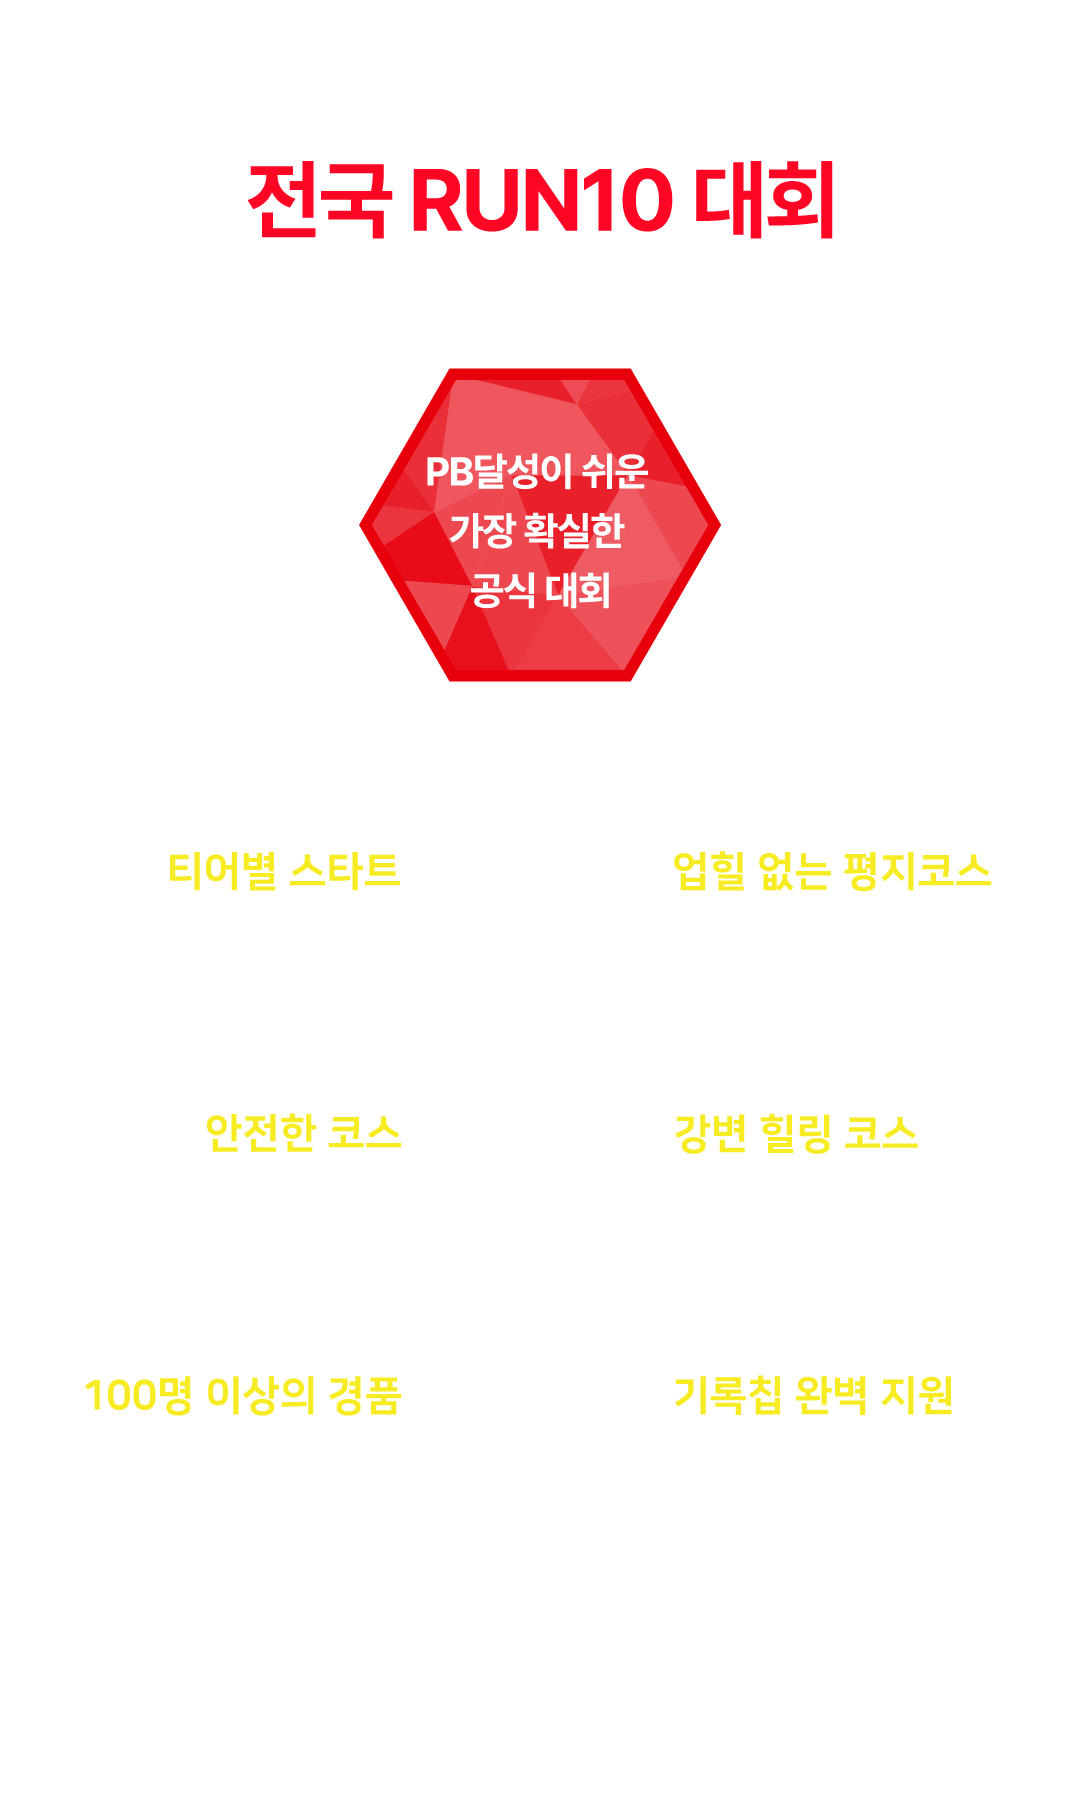
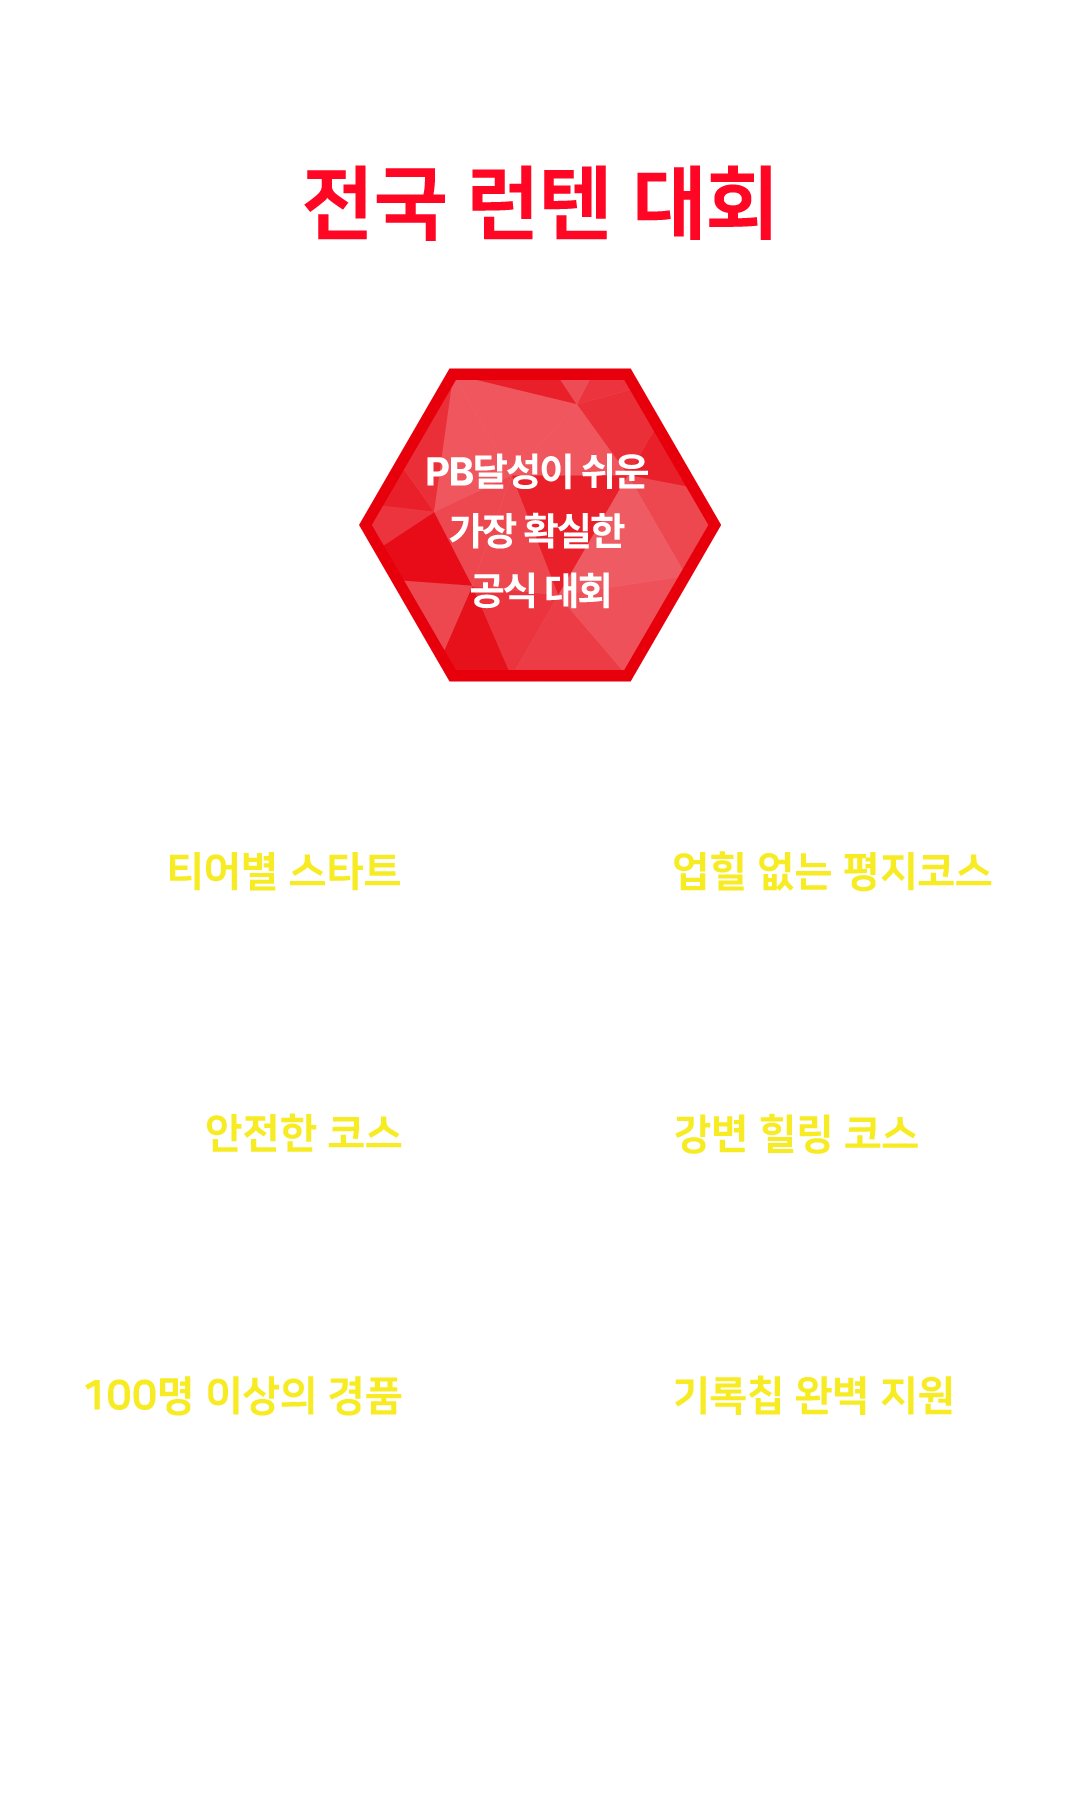
메인/대회/관리자페이지

Changed region(s): [[0.2139, 0.0935, 0.7944, 0.1558]]

diff --git a/src/components/WebMainPage.tsx b/src/components/WebMainPage.tsx
@@ -155,8 +155,8 @@ export default function WebMainPage() {
             {/* 2. we are RUN10 */}
             <div className="mb-10">
               <h1 className="text-4xl sm:text-6xl font-black tracking-tight">
-                <span className="block mb-2">we are</span>
-                <span className="block text-red-600">RUN10</span>
+                
+                <span className="block text-red-600">런텐 RUN10</span>
               </h1>
             </div>
 
@@ -265,7 +265,7 @@ export default function WebMainPage() {
                       <p>도시관광도 즐기고 PB에 도전하세요!</p>
                     </div>
                     <div className="text-xl sm:text-2xl md:text-3xl lg:text-4xl font-bold" style={{textShadow: '2px 2px 4px rgba(0,0,0,0.8)'}}>
-                      <p>2026 2.28 세종에서 열립니다</p>
+                      <p>2026.3.21 청주에서 열립니다</p>
                     </div>
                   </div>
                 </div>
@@ -304,10 +304,10 @@ export default function WebMainPage() {
         <div className="max-w-7xl mx-auto px-4 sm:px-6 lg:px-8">
           <div className="text-center mb-8 sm:mb-12 lg:mb-16">
             <h2 className="text-3xl sm:text-4xl md:text-5xl font-black text-red-600 mb-3 sm:mb-4">
-              RUN10 티어
+              런텐 티어
             </h2>
             <p className="text-lg sm:text-xl md:text-2xl text-black mb-2 sm:mb-3">
-              나의 RUN10 티어를 확인해 보세요.
+              나의 런텐 티어를 확인해 보세요.
             </p>
             <p className="text-base sm:text-lg text-gray-600 mb-6 sm:mb-8 lg:mb-12">
               마이페이지에서 언제든지 수정 가능합니다.
@@ -369,10 +369,10 @@ export default function WebMainPage() {
         <div className="max-w-7xl mx-auto px-4 sm:px-6 lg:px-8">
           <div className="text-center mb-8 sm:mb-12 lg:mb-16">
             <h2 className="text-3xl sm:text-4xl md:text-5xl font-black text-red-600 mb-3 sm:mb-4">
-              RUN10 랭커
+              런텐 랭커
             </h2>
             <p className="text-lg sm:text-xl md:text-2xl text-white mb-6 sm:mb-8 lg:mb-12">
-              RUN10 랭커에 도전하세요.
+              런텐 랭커에 도전하세요.
             </p>
           </div>
 

diff --git a/src/app/competitions/page.tsx b/src/app/competitions/page.tsx
@@ -184,15 +184,15 @@ export default function CompetitionsPage() {
     if (actualStatus === 'registration_closed') {
       return (
         <span className="inline-flex items-center px-4 py-2 rounded-full text-base font-bold bg-white text-orange-600 shadow-md">
-          접수마감
+          접수 마감
         </span>
       )
     }
 
-    // 진행중
+    // 접수중
     return (
       <span className="inline-flex items-center px-4 py-2 rounded-full text-base font-bold bg-white text-red-600 shadow-md">
-        진행
+        접수중
       </span>
     )
   }
@@ -311,8 +311,8 @@ export default function CompetitionsPage() {
             <h2 className="text-3xl md:text-4xl font-bold text-gray-900 mb-4">대회 일정 확인법</h2>
             
             <div className="text-base text-gray-600 space-y-1">
-              <p><span className="font-bold text-gray-800">종료</span>: 이미 마감된 대회</p>
-              <p><span className="font-bold text-red-600">진행</span>: 현재 접수중 대회</p>
+              <p><span className="font-bold text-gray-800">종료</span>: 이미 종료된 대회</p>
+              <p><span className="font-bold text-red-600">진행</span>: 현재 진행중 대회</p>
               <p><span className="font-bold text-blue-600">예정</span>: 앞으로 열릴 대회</p>
             </div>
           </div>
@@ -480,7 +480,13 @@ export default function CompetitionsPage() {
                           </>
                         )}
                         {isClosed && '마감 종료'}
-                        {isOngoing && '※ 선착순 3,500명 모집'}
+                        {isOngoing && (
+                          competition.title.includes('청주')
+                            ? '※ 선착순 3,000명 모집'
+                            : competition.title.includes('세종')
+                              ? '※ 선착순 3,500명 모집'
+                              : '※ 선착순 2,500명 모집'
+                        )}
                       </span>
                     </div>
                   </div>

diff --git a/src/components/AppMainPage.tsx b/src/components/AppMainPage.tsx
@@ -77,7 +77,7 @@ export default function AppMainPage() {
         {/* 중앙 텍스트 */}
         <div className="relative z-10 text-center text-white px-6">
           <h1 className="text-4xl sm:text-5xl font-black mb-3 tracking-tight">
-            <span className="block">RUN10</span>
+            <span className="block">런텐 RUN10</span>
           </h1>
           <p className="text-base sm:text-lg font-medium opacity-90 mb-2">
             전국 러닝 협회 인증
@@ -137,7 +137,7 @@ export default function AppMainPage() {
                     <p>도시관광도 즐기고 PB에 도전하세요!</p>
                   </div>
                   <div className="text-sm sm:text-base font-bold" style={{textShadow: '2px 2px 4px rgba(0,0,0,0.8)'}}>
-                    <p>2026 2.28 세종에서 열립니다</p>
+                    <p>2026.3.21 청주에서 열립니다</p>
                   </div>
                 </div>
               </div>
@@ -175,10 +175,10 @@ export default function AppMainPage() {
         <div className="max-w-md mx-auto">
           <div className="text-center mb-6">
             <h2 className="text-2xl font-black text-red-600 mb-2">
-              RUN10 티어
+              런텐 티어
             </h2>
             <p className="text-base text-gray-700 font-medium">
-              나의 RUN10 티어를 확인해 보세요
+              나의 런텐 티어를 확인해 보세요
             </p>
             <p className="text-center text-sm text-gray-600 mt-5 font-medium">
               마이페이지에서 언제든지 수정 가능합니다
@@ -203,10 +203,10 @@ export default function AppMainPage() {
         <div className="max-w-md mx-auto">
           <div className="text-center mb-6">
             <h2 className="text-2xl font-black text-red-600 mb-2">
-              RUN10 랭커
+              런텐 랭커
             </h2>
             <p className="text-base text-white font-medium mb-8">
-              RUN10 랭커에 도전하세요.
+              런텐 랭커에 도전하세요.
             </p>
           </div>
 

diff --git a/src/app/about/page.tsx b/src/app/about/page.tsx
@@ -99,7 +99,7 @@ export default function AboutPage() {
             <div className="mb-12">
               <div className="grid grid-cols-1 lg:grid-cols-2 gap-8 items-center">
                 <div className="order-2 lg:order-1">
-                  <h3 className="text-2xl font-semibold text-gray-900 mb-4">RUN10 대회</h3>
+                  <h3 className="text-2xl font-semibold text-gray-900 mb-4">런텐 RUN10 대회</h3>
                   <p className="text-gray-600 mb-4 leading-relaxed">
                     전국 러닝 협회가 인증하는 공식 10km 대회를 개최합니다.
                     정확한 기록 측정과 함께 최고의 러닝 경험을 제공합니다.
@@ -140,10 +140,10 @@ export default function AboutPage() {
                   </div>
                 </div>
                 <div className="order-2">
-                  <h3 className="text-2xl font-semibold text-gray-900 mb-4">RUN10 티어 시스템</h3>
+                  <h3 className="text-2xl font-semibold text-gray-900 mb-4">런텐 RUN10 티어 시스템</h3>
                   <p className="text-gray-600 mb-4 leading-relaxed">
                     개인 기록에 따른 체계적인 등급 시스템을 운영합니다.
-                    나의 RUN10 티어를 확인하고 더 높은 등급을 향해 도전하세요.
+                    나의 런텐 RUN10 티어를 확인하고 더 높은 등급을 향해 도전하세요.
                   </p>
                   <ul className="list-disc list-inside text-gray-600 space-y-2">
                     <li>치타족 (남성 30-39분59초 / 여성 40-49분59초)</li>
@@ -158,7 +158,6 @@ export default function AboutPage() {
         </div>
       </section>
 
-      
     </div>
   )
 }

diff --git a/src/components/MembershipForm.tsx b/src/components/MembershipForm.tsx
@@ -941,7 +941,8 @@ export default function MembershipForm({ onSuccess, onCancel }: MembershipFormPr
           )}
         </div>
 
-        {/* 기타 */}
+        {/* 기타 - 숨김 처리 (UI만 숨기고 DB에는 null 저장) */}
+        {/*
         <div>
           <label className="block text-sm font-medium text-gray-700 mb-2">기타</label>
           <textarea
@@ -951,6 +952,7 @@ export default function MembershipForm({ onSuccess, onCancel }: MembershipFormPr
             placeholder="추가로 전달하고 싶은 내용이 있다면 입력하세요"
           />
         </div>
+        */}
 
         {/* 약관 동의 */}
         <div className="space-y-3 sm:space-y-4 p-3 sm:p-4 border border-gray-200 rounded-md bg-gray-50">

diff --git a/src/components/Footer.tsx b/src/components/Footer.tsx
@@ -42,9 +42,13 @@ export default function Footer() {
               <Link href="/competitions" className="block text-gray-300 hover:text-white hover:text-red-200 transition-colors text-sm">
                 런텐 대회
               </Link>
+              <Link href="/rank" className="block text-gray-300 hover:text-white hover:text-red-200 transition-colors text-sm">
+                런텐 랭커
+              </Link>
               <Link href="/community" className="block text-gray-300 hover:text-white hover:text-red-200 transition-colors text-sm">
                 자유게시판
               </Link>
+              
             </div>
           </div>
 

diff --git a/src/app/mypage/page.tsx b/src/app/mypage/page.tsx
@@ -754,7 +754,8 @@ export default function MyPage() {
               )}
             </div>
 
-            {/* 기타 */}
+            {/* 기타 - 숨김 처리 */}
+            {/*
             <div>
               <label className="block text-sm font-medium text-gray-700 mb-2">기타</label>
               <textarea
@@ -764,6 +765,7 @@ export default function MyPage() {
                 placeholder="추가 정보가 있다면 입력하세요"
               />
             </div>
+            */}
 
             <button
               type="submit"

diff --git a/src/app/rank/page.tsx b/src/app/rank/page.tsx
@@ -82,7 +82,7 @@ export default function RankPage() {
           />
         </div>
         <div className="relative max-w-7xl mx-auto px-4 sm:px-6 lg:px-8 text-center">
-          <h1 className="text-4xl md:text-6xl font-bold mb-4">RUN10 랭크</h1>
+          <h1 className="text-4xl md:text-6xl font-bold mb-4">런텐 랭커</h1>
           <p className="text-lg md:text-xl text-red-100 max-w-3xl mx-auto">
             전국 러닝 협회 공식 인증 10km 랭커
           </p>
